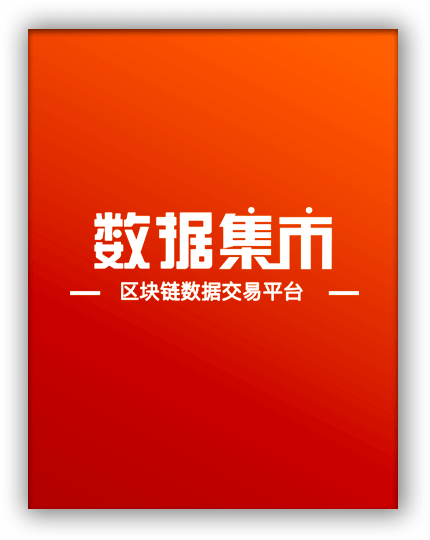
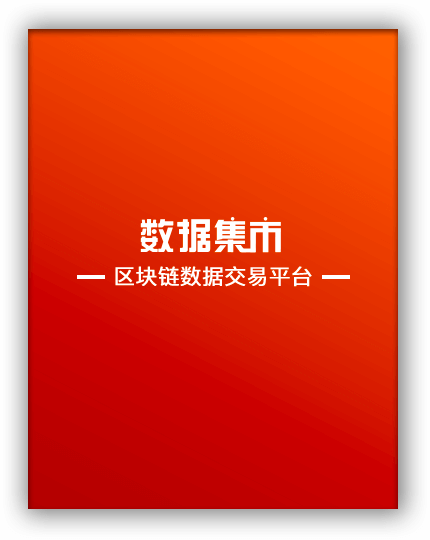
修改图标

Changed region(s): [[0.1512, 0.3852, 0.8465, 0.563]]

diff --git a/src/components/login/login.vue b/src/components/login/login.vue
@@ -597,7 +597,7 @@
       height: 100%;
       padding-top 36px
       img {
-        width: 346px;
+        width: 382px;
         height: 58px;
         display: inline-block;
       }
